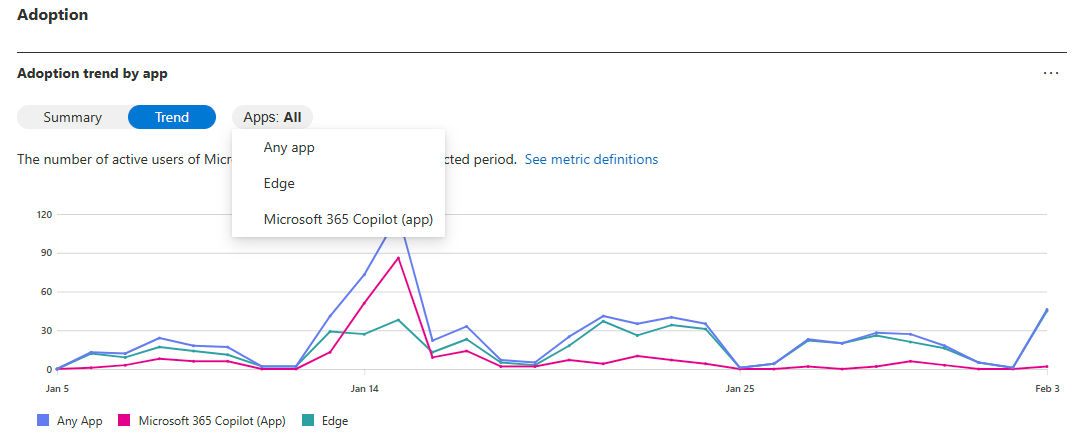
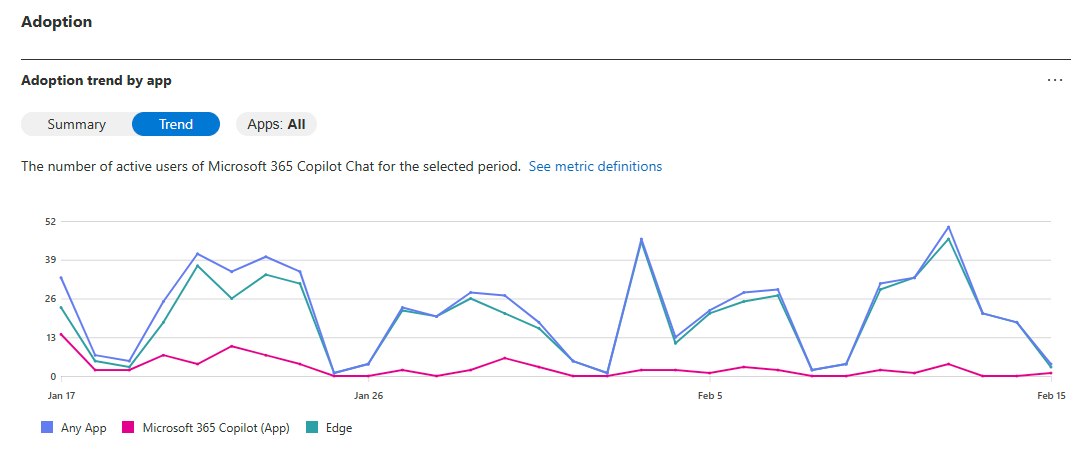
update images and acrolinx

diff --git a/microsoft-365/admin/activity-reports/microsoft-copilot-usage.md b/microsoft-365/admin/activity-reports/microsoft-copilot-usage.md
@@ -48,16 +48,16 @@ In **Recommendations**, the recommended action card highlights where admins can 
 
 You can see the following summary charts in this report as default view:
 
-:::image type="content" source="../../media/microsoft-copilot-adoption.png" alt-text="Screenshot showing the chart to evaluate adoption by app for Microsoft 365 Copilot Chat." lightbox="../../media/microsoft-copilot-adoption.png":::
+:::image type="content" source="../../media/copilot-chat-summary.png" alt-text="Screenshot showing the chart to evaluate adoption by app for Microsoft 365 Copilot Chat." lightbox="../../media/copilot-chat-summary.png":::
 
 - **Summary view** shows you the total usage of Microsoft 365 Copilot Chat of the time frame.
 - **Trend view** shows you the daily time trend of Microsoft 365 Copilot Chat of the time frame.
 
 You can switch between Summary view and Trend view. When switching to Trend view, you can select one or multiple entry points in the dropdown list to see daily usage or compare among entry points.
 
-:::image type="content" source="../../media/copilot-chat-adoption.png" alt-text="Screenshot showing the chart in Trend view to analyze adoption by app for Microsoft 365 Copilot Chat." lightbox="../../media/copilot-chat-adoption.png":::
+:::image type="content" source="../../media/copilot-chat-adoption.png" alt-text="Screenshot showing the chart in Trend view to analyze adoption by app for Microsoft 365 Copilot Chat." lightbox="../../media/copilot-chat-adoption":::
 
-Below is a table of app details for active Microsoft 365 Copilot Chat users:
+The following table shows app details for active Microsoft 365 Copilot Chat users:
 
 | App               | Details                                                                 | More information |
 |-------------------|-------------------------------------------------------------------------|------------------|
@@ -78,12 +78,12 @@ You can also export the report data into an Excel .csv file by selecting the **E
 |-----------------------------|-----------------------------------------------------------------------------|
 | **Username**                | The user's principal name.                                                  |
 | **Display name**            | The full name of the user.                                                  |
-| **Last activity date (UTC)**| The most recent date on which the user sent a message to Microsoft 365 Copilot Chat in Microsoft Edge or the Microsoft 365 Copilot (app), dating back to September 15, 2024. This date will remain fixed even if the timeframe of the report is changed. |
+| **Last activity date (UTC)**| The most recent date on which the user sent a message to Microsoft 365 Copilot Chat in Microsoft Edge or the Microsoft 365 Copilot (app), dating back to September 15, 2024. This date remains fixed even if the timeframe of the report is changed. |
 
 ## User-specific data de-anonymous/anonymous setting
 
-By default, usernames and display names in tge Microsoft 365 Copilot Chat report are anonymous. Global administrators can update settings to un-conceal or conceal usernames and display names.
+By default, usernames and display names in the Microsoft 365 Copilot Chat report are anonymous. Global administrators can update settings to unconceal or conceal usernames and display names.
 
 1. In the Microsoft 365 admin center, go to the **Settings** > **Org Settings**, and under the **Services** tab, choose **Reports**.
-2. Select **Reports**, and update the setting to “Display Concealed user, group and site names in all reports”.
+2. Select **Reports**, and update the setting to “Display Concealed user, group, and site names in all reports”.
 3. Select **Save**.
